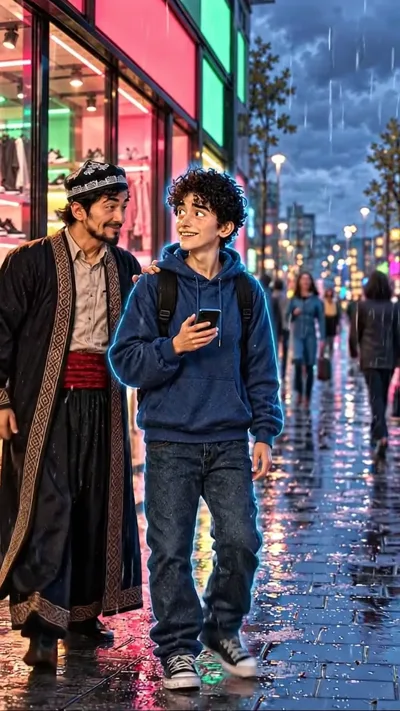
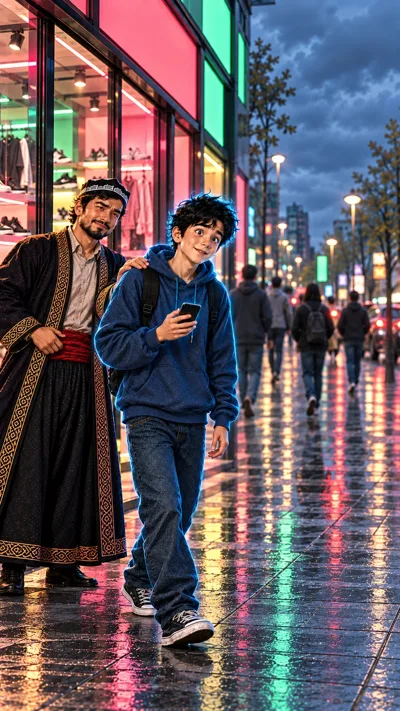
chegirma: yangi 10b rasmi tasdiqlandi (qizsiz, yuzlar namunadek) (#402)
Claude-Session: https://claude.ai/code/session_01RL3x4tL7VqVmiGwddJSE5k

diff --git a/video/chegirma/rasmlar.html b/video/chegirma/rasmlar.html
@@ -78,18 +78,12 @@ pre{margin:0;white-space:pre-wrap;word-break:break-word;font-family:var(--mono);
 <div class="row"><figure class="sc"><img src="web/s10.webp" alt="10-sahna rasmi"><figcaption>Veo'ga: s10.png</figcaption></figure>
 <div class="txt"><span class="lbl">Ovoz</span><p class="voice">Diyor qizga qarab qoladi. Usta: Hoy-hoy, Diyor! Sen do&#x27;konda chegirma qidiryapsanmi yoki ko&#x27;chada kelin? — Diyor: Yo&#x27;q, usta... men... hisoblayapman! — Usta: Ko&#x27;zing narxda bo&#x27;lsin, ukam. Avval hisob, keyin kelin!</p>
 <span class="lbl">Kamera: qotib turadi, qiz chiqib ketgach ikkalasiga yaqinlashish · qayta yasang: oldingi klipda Veo Diyor sochini jingalak qildi; faqat qiz o&#x27;tib ketadigan 0–2.5 s olinadi, gaplar 10b va 10c da</span>
-<pre id="v10">Vertical 9:16, 8 seconds. Start from the attached image of scene 10. Camera: Starts static, then a slow push-in on Usta and Diyor after the girl has walked out of the frame on the right. Action: The girl keeps walking forward to the right with calm steps and walks out of the frame on the right; she never turns around, never comes back and never looks at the men. Diyor&#x27;s head slowly follows her, he stares dreamily with a love-struck goofy smile and soft wide eyes, forgetting the phone in his hand. Then USTA SPEAKS with a laugh and taps Diyor on the shoulder; Diyor startles, turns to Usta, his cheeks blush, and DIYOR SPEAKS fast and flustered, waving the phone; then USTA SPEAKS again, laughing, wagging his index finger at Diyor in a friendly scolding way, and Diyor scratches the back of his head with an embarrassed grin. Other passers-by keep walking in the background. Dialogue: Usta says in Uzbek, in a calm deep warm male voice of about 30-35: &quot;Hoy-hoy, Diyor! Sen do&#x27;konda chegirma qidiryapsanmi yoki ko&#x27;chada kelin?&quot; Diyor says in Uzbek, in a lighter young male voice of about 22: &quot;Yo&#x27;q, usta... men... hisoblayapman!&quot; Usta says in Uzbek, in a calm deep warm male voice of about 30-35: &quot;Ko&#x27;zing narxda bo&#x27;lsin, ukam. Avval hisob, keyin kelin!&quot; Continue exactly from the attached image: same place, same light, same characters in the same positions; every movement continues forward in the direction it already has in the image and never reverses, nobody walks back or re-enters the frame. Keep every character exactly as in the image for the whole clip, also when the camera comes closer: the same face, eyes, eyebrows, beard, age, hair, clothes and colours; Usta&#x27;s doppi keeps its white arch embroidery; Diyor&#x27;s hoodie stays dark navy blue and his cyan-blue glow stays only a thin outline, it never colours his body; Diyor keeps his round boyish face, big eyes and messy straight jet-black hair, never curly and never brown; Usta keeps his fuller face and short neat full black beard and never looks older or thinner. Exactly two arms, two hands and five fingers on each hand per person, young smooth hands; objects stay where they are unless the action moves them, nothing shrinks, melts or disappears. Background passers-by stay small, blurred and faceless and keep walking steadily in their own direction the whole clip; light drizzle and reflections on the wet pavement. Keep the painted illustration style, the cloudy light and the colours exactly as in the image. The character who speaks in this scene talks naturally for the whole clip: lips and jaw move as in real speech, with matching small head and hand gestures; everyone else keeps the mouth closed. The dialogue is spoken in Uzbek exactly as written below, in a natural Tashkent accent; no subtitles and no on-screen text. Clothes stay plain with no print or writing. No new people in focus, no extra objects, no brand logos on shoes, phones or bags, no text, no letters, no numbers on signs, cards, screens or timers, no watermark. Only quiet street or shop ambience.</pre><button class="copy" data-t="v10">Nusxa olish</button></div></div></article><article class="card"><header><span class="num">10b</span><h2>10b rasmi — ChatGPT tahriri, 9:16 (tik)</h2><span class="dur">avval shu</span></header>
-<div class="row"><div class="refs"><p class="rh">Uchala rasmni ChatGPT'ga biriktiring (yangi chat):</p>
-<figure class="ref"><img src="web/s10.webp" alt="10-sahna rasmi"><figcaption>s10.png (tahrir qilinadi)</figcaption></figure>
-<figure class="ref"><img src="web/ref_usta.webp" alt="Usta namunasi"><figcaption>ref_usta.png</figcaption></figure>
-<figure class="ref"><img src="web/ref_diyor.webp" alt="Diyor namunasi"><figcaption>ref_diyor.png</figcaption></figure></div>
-<div class="txt"><span class="lbl">Nima uchun</span><p class="voice">Veo 10-klipda Diyor sochini jingalak, Ustani ozg'in va qariroq qilib qo'ydi; 10b/10c shu klipdan boshlangani uchun xato ularga ham o'tdi. Yangi rasm tasdiqlangan 10-sahna rasmidan olinadi: qiz olib tashlanadi, qolgani o'zgarmaydi.</p>
-<pre id="e10b">Edit the attached image of scene 10, vertical 9:16, medium shot. Keep everything exactly the same: the same street, the same cloudy evening light, the same coral pink and mint shop windows, the same camera framing and the same painted illustration style. Only one change: the girl in the atlas dress has already walked away. Remove her completely and fill her place with the continuing wet street, the trees and a few small, blurred, faceless passers-by walking away. USTA (the calm man about 30 years old with a short jet-black beard, black-and-white Uzbek doppi skullcap, dark embroidered chapan robe with a red sash; his hands are the young strong hands of a 30-year-old man, smooth skin, no wrinkles, no swollen veins) stays exactly as in the image and as in the attached Usta reference image: the same fuller face, short neat full black beard, age about 30; his hand rests on Diyor&#x27;s shoulder, a sly laughing smile, eyes crinkled. DIYOR (the naive guy about 20 years old with messy black hair, big innocent eyes, dark blue hoodie, jeans and sneakers, outlined with a soft cyan-blue glow) stays exactly as in the image and as in the attached Diyor reference image: round boyish face, big innocent eyes, messy straight jet-black hair (not curly, not brown), phone in his hand; he still gazes dreamily to the right where the girl went, with a love-struck goofy smile and slightly pink cheeks. Only three main colours: coral pink, mint green and night blue. Every person has exactly two arms and two hands, every hand clearly belongs to its own arm and shoulder, no hand does two things at once. Exactly five fingers on each hand. Clothes plain with no print. No text, no letters, no numbers, no logos, no watermark.</pre><button class="copy" data-t="e10b">Nusxa olish</button></div></div></article><article class="card"><header><span class="num">10b</span><h2>10b-sahna — 9:16 (tik), 8 s</h2><span class="dur">yangi</span></header>
-<div class="row"><figure class="sc"><img src="web/s10.webp" alt="10b-sahna rasmi"><figcaption>Veo'ga: yangi 10b rasmi (tepadagi tahrirdan) — kelgach shu yerga qo'yiladi</figcaption></figure>
+<pre id="v10">Vertical 9:16, 8 seconds. Start from the attached image of scene 10. Camera: Starts static, then a slow push-in on Usta and Diyor after the girl has walked out of the frame on the right. Action: The girl keeps walking forward to the right with calm steps and walks out of the frame on the right; she never turns around, never comes back and never looks at the men. Diyor&#x27;s head slowly follows her, he stares dreamily with a love-struck goofy smile and soft wide eyes, forgetting the phone in his hand. Then USTA SPEAKS with a laugh and taps Diyor on the shoulder; Diyor startles, turns to Usta, his cheeks blush, and DIYOR SPEAKS fast and flustered, waving the phone; then USTA SPEAKS again, laughing, wagging his index finger at Diyor in a friendly scolding way, and Diyor scratches the back of his head with an embarrassed grin. Other passers-by keep walking in the background. Dialogue: Usta says in Uzbek, in a calm deep warm male voice of about 30-35: &quot;Hoy-hoy, Diyor! Sen do&#x27;konda chegirma qidiryapsanmi yoki ko&#x27;chada kelin?&quot; Diyor says in Uzbek, in a lighter young male voice of about 22: &quot;Yo&#x27;q, usta... men... hisoblayapman!&quot; Usta says in Uzbek, in a calm deep warm male voice of about 30-35: &quot;Ko&#x27;zing narxda bo&#x27;lsin, ukam. Avval hisob, keyin kelin!&quot; Continue exactly from the attached image: same place, same light, same characters in the same positions; every movement continues forward in the direction it already has in the image and never reverses, nobody walks back or re-enters the frame. Keep every character exactly as in the image for the whole clip, also when the camera comes closer: the same face, eyes, eyebrows, beard, age, hair, clothes and colours; Usta&#x27;s doppi keeps its white arch embroidery; Diyor&#x27;s hoodie stays dark navy blue and his cyan-blue glow stays only a thin outline, it never colours his body; Diyor keeps his round boyish face, big eyes and messy straight jet-black hair, never curly and never brown; Usta keeps his fuller face and short neat full black beard and never looks older or thinner. Exactly two arms, two hands and five fingers on each hand per person, young smooth hands; objects stay where they are unless the action moves them, nothing shrinks, melts or disappears. Background passers-by stay small, blurred and faceless and keep walking steadily in their own direction the whole clip; light drizzle and reflections on the wet pavement. Keep the painted illustration style, the cloudy light and the colours exactly as in the image. The character who speaks in this scene talks naturally for the whole clip: lips and jaw move as in real speech, with matching small head and hand gestures; everyone else keeps the mouth closed. The dialogue is spoken in Uzbek exactly as written below, in a natural Tashkent accent; no subtitles and no on-screen text. Clothes stay plain with no print or writing. No new people in focus, no extra objects, no brand logos on shoes, phones or bags, no text, no letters, no numbers on signs, cards, screens or timers, no watermark. Only quiet street or shop ambience.</pre><button class="copy" data-t="v10">Nusxa olish</button></div></div></article><article class="card"><header><span class="num">10b</span><h2>10b-sahna — 9:16 (tik), 8 s</h2><span class="dur">yangi</span></header>
+<div class="row"><figure class="sc"><img src="web/s10b.webp" alt="10b-sahna rasmi"><figcaption>Veo'ga: s10b.png (✅ qizsiz, yuzlar namunadek)</figcaption></figure>
 <div class="txt"><span class="lbl">Ovoz</span><p class="voice">Usta: Hoy-hoy, Diyor! Sen do&#x27;konda chegirma qidiryapsanmi yoki ko&#x27;chada kelin? — Diyor: Yo&#x27;q, usta... men... hisoblayapman!</p>
 <span class="lbl">Kamera: ikkalasiga sekin yaqinlashish (beldan yuqori) · ovoz ~6.5 s</span>
 <pre id="v10b">Vertical 9:16, 8 seconds. Start from the attached image. Camera: Slow push-in from the two-shot in the image to a medium shot of Usta and Diyor from the waist up. Action: The girl has already left the frame on the right and never comes back; nobody new enters the frame. Diyor keeps gazing dreamily to the right with a goofy love-struck smile. USTA SPEAKS with a laugh: he leans toward Diyor, his hand on Diyor&#x27;s shoulder gives two friendly pats, his eyes crinkle, eyebrows raised playfully, a wide teasing grin. Then Diyor startles, his head turns quickly from the right to Usta, eyes wide, cheeks blushing pink, and DIYOR SPEAKS fast and flustered, stammering, shaking his head and waving the phone in his hand; Usta keeps grinning with his mouth closed while Diyor talks. Passers-by keep walking in the background. Dialogue: Usta says in Uzbek, in a calm deep warm male voice of about 30-35: &quot;Hoy-hoy, Diyor! Sen do&#x27;konda chegirma qidiryapsanmi yoki ko&#x27;chada kelin?&quot; Diyor says in Uzbek, in a lighter young male voice of about 22: &quot;Yo&#x27;q, usta... men... hisoblayapman!&quot; Continue exactly from the attached image: same place, same light, same characters in the same positions; every movement continues forward in the direction it already has in the image and never reverses, nobody walks back or re-enters the frame. Keep every character exactly as in the image for the whole clip, also when the camera comes closer: the same face, eyes, eyebrows, beard, age, hair, clothes and colours; Usta&#x27;s doppi keeps its white arch embroidery; Diyor&#x27;s hoodie stays dark navy blue and his cyan-blue glow stays only a thin outline, it never colours his body; Diyor keeps his round boyish face, big eyes and messy straight jet-black hair, never curly and never brown; Usta keeps his fuller face and short neat full black beard and never looks older or thinner. Exactly two arms, two hands and five fingers on each hand per person, young smooth hands; objects stay where they are unless the action moves them, nothing shrinks, melts or disappears. Background passers-by stay small, blurred and faceless and keep walking steadily in their own direction the whole clip; light drizzle and reflections on the wet pavement. Keep the painted illustration style, the cloudy light and the colours exactly as in the image. The character who speaks in this scene talks naturally for the whole clip: lips and jaw move as in real speech, with matching small head and hand gestures; everyone else keeps the mouth closed. The dialogue is spoken in Uzbek exactly as written below, in a natural Tashkent accent; no subtitles and no on-screen text. Clothes stay plain with no print or writing. No new people in focus, no extra objects, no brand logos on shoes, phones or bags, no text, no letters, no numbers on signs, cards, screens or timers, no watermark. Only quiet street or shop ambience.</pre><button class="copy" data-t="v10b">Nusxa olish</button></div></div></article><article class="card"><header><span class="num">10c</span><h2>10c-sahna — 9:16 (tik), 8 s</h2><span class="dur">yangi</span></header>
-<div class="row"><figure class="sc"><img src="web/s10.webp" alt="10c-sahna rasmi"><figcaption>Veo'ga: yangi 10b rasmi (tepadagi tahrirdan) — kelgach shu yerga qo'yiladi</figcaption></figure>
+<div class="row"><figure class="sc"><img src="web/s10b.webp" alt="10c-sahna rasmi"><figcaption>Veo'ga: s10b.png (✅ qizsiz, yuzlar namunadek)</figcaption></figure>
 <div class="txt"><span class="lbl">Ovoz</span><p class="voice">Usta: Ko&#x27;zing narxda bo&#x27;lsin, ukam. Avval hisob, keyin kelin!</p>
 <span class="lbl">Kamera: chapga yoy bo&#x27;ylab Usta yuziga yaqinlashish (kulgan yuz) · ovoz ~4 s</span>
 <pre id="v10c">Vertical 9:16, 8 seconds. Start from the attached image. Camera: Slow arc to the left, ending in a medium close-up of Usta&#x27;s laughing face, with Diyor&#x27;s embarrassed face at the edge of the frame. Action: In the first second Diyor turns his head from the right to Usta, then looks down shyly. USTA SPEAKS, laughing warmly: eyes crinkled, cheeks lifted, a broad kind smile; he wags his index finger at Diyor in a friendly scolding way, then taps his own temple twice as if saying «think first». Diyor scratches the back of his head with an embarrassed grin, mouth closed, cheeks pink, eyes down. The girl never comes back. Passers-by keep walking in the background. Dialogue: Usta says in Uzbek, in a calm deep warm male voice of about 30-35: &quot;Ko&#x27;zing narxda bo&#x27;lsin, ukam. Avval hisob, keyin kelin!&quot; Continue exactly from the attached image: same place, same light, same characters in the same positions; every movement continues forward in the direction it already has in the image and never reverses, nobody walks back or re-enters the frame. Keep every character exactly as in the image for the whole clip, also when the camera comes closer: the same face, eyes, eyebrows, beard, age, hair, clothes and colours; Usta&#x27;s doppi keeps its white arch embroidery; Diyor&#x27;s hoodie stays dark navy blue and his cyan-blue glow stays only a thin outline, it never colours his body; Diyor keeps his round boyish face, big eyes and messy straight jet-black hair, never curly and never brown; Usta keeps his fuller face and short neat full black beard and never looks older or thinner. Exactly two arms, two hands and five fingers on each hand per person, young smooth hands; objects stay where they are unless the action moves them, nothing shrinks, melts or disappears. Background passers-by stay small, blurred and faceless and keep walking steadily in their own direction the whole clip; light drizzle and reflections on the wet pavement. Keep the painted illustration style, the cloudy light and the colours exactly as in the image. The character who speaks in this scene talks naturally for the whole clip: lips and jaw move as in real speech, with matching small head and hand gestures; everyone else keeps the mouth closed. The dialogue is spoken in Uzbek exactly as written below, in a natural Tashkent accent; no subtitles and no on-screen text. Clothes stay plain with no print or writing. No new people in focus, no extra objects, no brand logos on shoes, phones or bags, no text, no letters, no numbers on signs, cards, screens or timers, no watermark. Only quiet street or shop ambience.</pre><button class="copy" data-t="v10c">Nusxa olish</button></div></div></article><article class="card"><header><span class="num">11</span><h2>11-sahna — 9:16 (tik), 8 s</h2><span class="dur">66–71 s</span></header>

diff --git a/video/chegirma/rasm_promptlar.py b/video/chegirma/rasm_promptlar.py
@@ -182,7 +182,7 @@ DUR = {5: "ovoz ~7 s", 8: "ovoz ~9 s: montajda ~1.15x sekinlashadi", 10: "qayta 
 # 10-klipda (2026-10-27) Veo qizni orqaga qaytardi — 2.5 s dan keyingisi ishlatilmaydi. Hazil gaplari ikkita yangi klipga bo'lindi;
 # boshlang'ich rasm: 10-klipning 2.2-soniyasi (qiz chiqib ketgan, Usta qo'li Diyor yelkasida) → img/s10b.png
 # 10b/10c ning birinchi rasmi (10-klip kadri) xato chiqdi: Veo 10-klipda Diyor sochini jingalak, Usta yuzini ozg'in va qari qilgan edi.
-# Yangi boshlang'ich rasm tasdiqlangan s10.png dan ChatGPT tahriri bilan olinadi (qiz olib tashlanadi).
+# Yangi boshlang'ich rasm tasdiqlangan s10.png dan ChatGPT tahriri bilan olindi (qiz olib tashlangan), egasi 2026-10-27 yubordi → img/s10b.png ✅
 EDIT10B = ("Edit the attached image of scene 10, vertical 9:16, medium shot. Keep everything exactly the same: the same street, the same cloudy evening light, the same coral pink and mint shop windows, "
   "the same camera framing and the same painted illustration style. Only one change: the girl in the atlas dress has already walked away. Remove her completely and fill her place with the "
   "continuing wet street, the trees and a few small, blurred, faceless passers-by walking away. "
@@ -249,19 +249,11 @@ for n, t, voice, cols, scene in S:
 <div class="txt"><span class="lbl">Ovoz</span><p class="voice">{e(voice)}</p>
 <span class="lbl">Kamera: {e(CAMUZ[n])}{(" · " + e(DUR[n])) if n in DUR else ""}</span>
 <pre id="v{n}">{e(vp(n))}</pre><button class="copy" data-t="v{n}">Nusxa olish</button></div></div></article>""")
-    if n == 10:
-        cards.append(f"""<article class="card"><header><span class="num">10b</span><h2>10b rasmi — ChatGPT tahriri, 9:16 (tik)</h2><span class="dur">avval shu</span></header>
-<div class="row"><div class="refs"><p class="rh">Uchala rasmni ChatGPT'ga biriktiring (yangi chat):</p>
-<figure class="ref"><img src="web/s10.webp" alt="10-sahna rasmi"><figcaption>s10.png (tahrir qilinadi)</figcaption></figure>
-<figure class="ref"><img src="web/ref_usta.webp" alt="Usta namunasi"><figcaption>ref_usta.png</figcaption></figure>
-<figure class="ref"><img src="web/ref_diyor.webp" alt="Diyor namunasi"><figcaption>ref_diyor.png</figcaption></figure></div>
-<div class="txt"><span class="lbl">Nima uchun</span><p class="voice">Veo 10-klipda Diyor sochini jingalak, Ustani ozg'in va qariroq qilib qo'ydi; 10b/10c shu klipdan boshlangani uchun xato ularga ham o'tdi. Yangi rasm tasdiqlangan 10-sahna rasmidan olinadi: qiz olib tashlanadi, qolgani o'zgarmaydi.</p>
-<pre id="e10b">{e(EDIT10B)}</pre><button class="copy" data-t="e10b">Nusxa olish</button></div></div></article>""")
     for k, f2, d2, voice2, camuz2, cam2, act2, say2 in EXTRA.get(n, []):
         dl = " ".join(f'{w} says in Uzbek, in {globals()[v]}: "{t2}"' for w, v, t2 in say2)
         pr = f"Vertical 9:16, 8 seconds. Start from the attached image. Camera: {cam2}. Action: {act2} Dialogue: {dl} {KEEP}"
         cards.append(f"""<article class="card"><header><span class="num">{k}</span><h2>{k}-sahna — 9:16 (tik), 8 s</h2><span class="dur">yangi</span></header>
-<div class="row"><figure class="sc"><img src="web/s10.webp" alt="{k}-sahna rasmi"><figcaption>Veo'ga: yangi 10b rasmi (tepadagi tahrirdan) — kelgach shu yerga qo'yiladi</figcaption></figure>
+<div class="row"><figure class="sc"><img src="web/{f2}.webp" alt="{k}-sahna rasmi"><figcaption>Veo'ga: s10b.png (✅ qizsiz, yuzlar namunadek)</figcaption></figure>
 <div class="txt"><span class="lbl">Ovoz</span><p class="voice">{e(voice2)}</p>
 <span class="lbl">Kamera: {e(camuz2)} · {e(d2)}</span>
 <pre id="v{k}">{e(pr)}</pre><button class="copy" data-t="v{k}">Nusxa olish</button></div></div></article>""")

diff --git a/video/chegirma/README.md b/video/chegirma/README.md
@@ -21,3 +21,4 @@ Ssenariy `ideas/chegirma.md`, ovoz bloki `OVOZ.md` (15 qator), rasm va Veo promp
 | 12 | `clips/s12.mp4` | ✅ | 0–7.6 s | Usta telefonni uzatadi, Diyor bosh barmog'ini ko'taradi. 7.7 s dan Veo kadrni almashtiradi (ikkalasi yo'qoladi), shuning uchun kesiladi. 1.3–3 s da telefon yonida «$» belgili oq pufakchalar uchadi (kichik) |
 
 **Yuz tekshiruvi (2026-10-27, egasi so'radi):** 10, 10b, 10c kliplarida Diyor sochi jingalak va jigarrang (namunada tekis, qora, to'zg'in), yuzi ozg'in va realistik; Usta ozg'in, qariroq, soqoli siyrak. Xato 10-klipda Veo'dan boshlangan, 10b/10c shu klip kadridan boshlangani uchun xato ularga ham o'tdi (Claude tekshirmay olgan). Yangi 10b rasmi tasdiqlangan s10.png dan ChatGPT tahriri bilan olinadi, keyin 10, 10b, 10c qayta yasaladi. Promptlarga soch va yosh qulfi qo'shildi.
+Yangi `img/s10b.png` (2026-10-27): s10.png dan qiz olib tashlangan; Usta va Diyor yuzlari s10.png va namunalar bilan solishtirildi — bir xil (Diyor sochi tekis, qora). 10b va 10c shu rasmdan qayta yasaladi.
